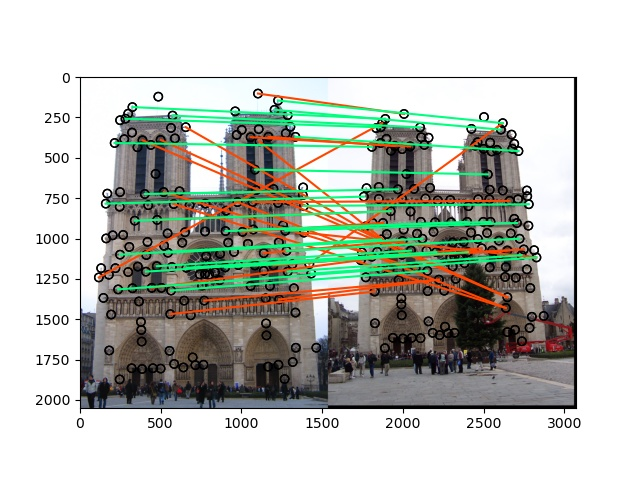
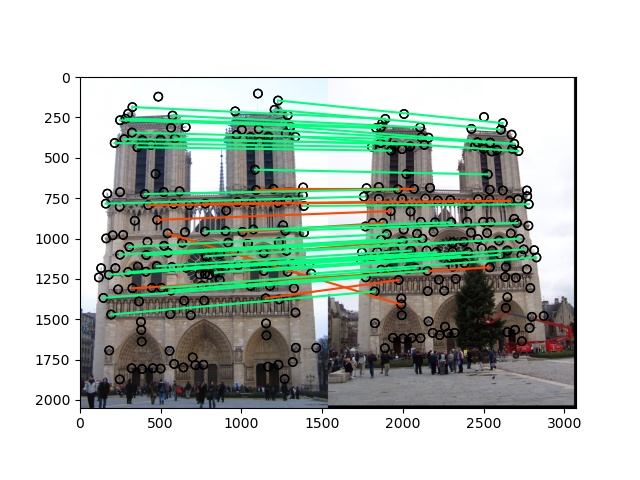
SIFT-like get_features Done

Changed region(s): [[0.1562, 0.2188, 0.8438, 0.6562], [0.4062, 0.1875, 0.5312, 0.2188], [0.6562, 0.3438, 0.6875, 0.375]]

diff --git a/Local Feature Matching/code/student.py b/Local Feature Matching/code/student.py
@@ -2,18 +2,19 @@ import numpy as np
 import matplotlib.pyplot as plt
 from skimage import filters, feature, img_as_int
 from skimage.measure import regionprops
+from scipy.signal import convolve2d
 
-def gaussianFilter(size, sigma):
+def getGaussianFilter(size, sigma):
     x, y = np.mgrid[-size // 2 + 1 : size // 2 + 1, -size // 2 + 1 : size // 2 + 1]
 
     gaussianKernel = np.exp(-((x**2 + y**2) / (2.0 * (sigma ** 2)))) / (2.0 * np.pi * (sigma ** 2))
      
     return gaussianKernel / gaussianKernel.sum()
 
-def sobelFilter():
-    return np.array([1, 2, 1],
+def getSobelFilter():
+    return np.array([[1, 2, 1],
                     [0, 0, 0],
-                    [-1, -2, -1])
+                    [-1, -2, -1]])
 
 def getDistanceMatrix(features1, features2, featureNumber1, featureNumber2):
     expandedFeatures1 = np.repeat(features1, repeats = featureNumber2, axis = 0)
@@ -26,9 +27,9 @@ def getDistanceMatrix(features1, features2, featureNumber1, featureNumber2):
 def getNormalizedPatches(image, x, y, featureWidth = 16):
     rowNumber = image.shape[0]
     colNumber = image.shape[1]
-    features = np.zeros((len(x),256))
+    features = np.zeros((len(x), 256))
     offset = np.uint16(featureWidth / 2)
-    # TODO: Your implementation here! See block comments and the project webpage for instructions
+    
     for i in range(len(x)):
         xCenter = np.uint16(x[i])
         yCenter = np.uint16(y[i]) 
@@ -41,10 +42,51 @@ def getNormalizedPatches(image, x, y, featureWidth = 16):
             patches = np.reshape(patches, (1, featureWidth ** 2))
             patches = patches / np.linalg.norm(patches)
             features[i, :] = patches
-        else:
-            patches = np.zeros((16, 16))
-            patches = np.reshape(patches, (1, 256))
-            features[i, :] = patches
+    return features
+
+def getScaleInvariantFeature(image, x, y, featureWidth = 16):
+    rowNumber = image.shape[0]
+    colNumber = image.shape[1]
+    offset = np.uint16(featureWidth / 2)
+
+    sobelFilter = getSobelFilter()
+    gaussianFilter = getGaussianFilter(int(offset), int(offset))
+    sobelFilterOctave = np.zeros((8, sobelFilter.shape[0], sobelFilter.shape[1]))
+    imageOctave = np.zeros((8, rowNumber, colNumber))
+
+    for i in range(8):
+        sobelFilter = np.array([[sobelFilter[0, 1], sobelFilter[0, 2], sobelFilter[1, 2]],
+                [sobelFilter[0, 0], sobelFilter[1, 1], sobelFilter[2, 2]],
+                [sobelFilter[1, 0], sobelFilter[2, 0], sobelFilter[2, 1]]])
+
+        sobelFilterOctave[i, :] = sobelFilter
+
+    for i in range(8):
+        imageOctave[i, :] = convolve2d(image, sobelFilterOctave[i], mode = 'same')
+
+    imageOctave = [convolve2d(x, gaussianFilter, mode = 'same') for x in imageOctave]
+    
+    features = np.ones((len(x), 128))
+    for i in range(len(x)):
+        xCenter = np.uint16(x[i])
+        yCenter = np.uint16(y[i]) 
+        if xCenter >= offset and xCenter <= rowNumber - 2 * offset and yCenter >= offset and yCenter <= colNumber - 2 * offset:
+            leftBound = np.uint16(x[i]) - offset
+            rightBound = np.uint16(x[i]) + offset
+            topBound = np.uint16(y[i]) - offset
+            bottomBound = np.uint16(y[i]) + offset
+
+            histogram = np.zeros((1, 128))
+            for j in range(8):
+                layerImage = np.array(imageOctave[j])
+                featureWindow = np.array(layerImage[topBound : bottomBound, leftBound : rightBound])
+                featureWindow = np.split(featureWindow, 4, axis=0)
+                featureWindow = np.array([np.split(x, 4, axis = 1) for x in featureWindow])
+                histogramPart = (np.array([[y.sum() for y in x] for x in featureWindow])).flatten()
+                for k in range(16):
+                    histogram[0, j + 8 * k] = histogramPart[k]
+            histogram = histogram / np.linalg.norm(histogram)
+            features[i, :] = histogram
     return features
 
 def get_interest_points(image, feature_width):
@@ -159,7 +201,8 @@ def get_features(image, x, y, feature_width):
 
     '''
     # TODO: Your implementation here! See block comments and the project webpage for instructions
-    return getNormalizedPatches(image, x, y, feature_width)
+    # return getNormalizedPatches(image, x, y, feature_width)
+    return getScaleInvariantFeature(image, x, y, feature_width)
 
 
 def match_features(im1_features, im2_features):

diff --git a/test.py b/test.py
@@ -1,55 +1,50 @@
 import numpy as np
 from cmath import sqrt
 from scipy.spatial.distance import cdist
-import scipy.ndimage.filters as ft 
+from scipy.signal import convolve2d
 
-def gaussianFilter(size, sigma):
+def getGaussianFilter(size, sigma):
     x, y = np.mgrid[-size // 2 + 1 : size // 2 + 1, -size // 2 + 1 : size // 2 + 1]
 
     gaussianKernel = np.exp(-((x**2 + y**2) / (2.0 * (sigma ** 2)))) / (2.0 * np.pi * (sigma ** 2))
      
     return gaussianKernel / gaussianKernel.sum()
 
-def getDistanceMatrix(features1, features2, featureNumber1, featureNumber2):
-    expandedFeatures1 = np.repeat(features1, repeats = featureNumber2, axis = 0)
-    expandedFeatures2 = np.tile(features2, (featureNumber1, 1))
+def getSobelFilter():
+    return np.array([[1, 2, 1],
+                    [0, 0, 0],
+                    [-1, -2, -1]])
 
-    subMatrix = expandedFeatures1 - expandedFeatures2
-    squareMatrix = subMatrix ** 2
-    return np.sqrt(squareMatrix.sum(axis = 1).reshape((featureNumber1, featureNumber2)))
+def getScaleInvariantFeature(image, x, y, featureWidth = 16):
+    rowNumber = image.shape[0]
+    colNumber = image.shape[1]
+    # features = np.zeros((len(x), 128))
+    offset = np.uint16(featureWidth / 2)
+    # cellWidth = np.uint16(featureWidth / 4)
 
-def match_features(im1_features, im2_features):
-    featureNumber1 = im1_features.shape[0]
-    featureNumber2 = im2_features.shape[0]
+    sobelFilter = getSobelFilter()
+    gaussianFilter = getGaussianFilter(int(offset), int(offset))
+    sobelFilterOctave = np.zeros((8, sobelFilter.shape[0], sobelFilter.shape[1]))
+    imageOctave = np.zeros((8, rowNumber, colNumber))
+
+    for i in range(8):
+        sobelFilter = np.array([[sobelFilter[0, 1], sobelFilter[0, 2], sobelFilter[1, 2]],
+                [sobelFilter[0, 0], sobelFilter[1, 1], sobelFilter[2, 2]],
+                [sobelFilter[1, 0], sobelFilter[2, 0], sobelFilter[2, 1]]])
+
+        sobelFilterOctave[i, :] = sobelFilter
+
+    for i in range(8):
+        imageOctave[i, :] = convolve2d(image, sobelFilterOctave[i], mode = 'same')
+
+    imageOctave = [convolve2d(x, gaussianFilter, mode = 'same') for x in imageOctave]
+    # for i in range(len(x)):
+
     
-    distanceMatrix = getDistanceMatrix(im1_features, im2_features, featureNumber1, featureNumber2)
+    return imageOctave
 
-    indexSortedMatrix = np.zeros((featureNumber1, featureNumber2))
-
-    indexSortedMatrix = np.argsort(distanceMatrix)
-
-    nearestNeighborIndex = indexSortedMatrix[:, 0]
-    secondNearestNeighborIndex = indexSortedMatrix[:, 1]
-
-    nearestNeighbor = list(map(lambda x, y: x[y], distanceMatrix, nearestNeighborIndex))
-    secondNearestNeighbor = list(map(lambda x, y: x[y], distanceMatrix, secondNearestNeighborIndex))
-
-    confidences = list(map(lambda x, y: y / x if x != 0 else -1, nearestNeighbor, secondNearestNeighbor))
-
-    matches = [[i, nearestNeighborIndex[i]] for i in range(featureNumber1)]
-
-    return indexSortedMatrix, secondNearestNeighborIndex
-    return matches, confidences
-
-A = np.array([[1,2,3,4,5,6,7,8],
-[3,2,3,2,3,2,3,2]])
-B = np.array([[1,1,1,1,1,1,1,1],
-[4,4,4,4,7,7,7,7],
-[3,4,5,6,6,5,4,3]])
-
-C = np.array([1,2,3,5,4,7,6])
-X = np.random.random((3,3))
-Y = np.random.random((5,3))
-# print(np.allclose(getDistanceMatrix(X,Y,X.shape[0],Y.shape[0]), cdist(X,Y)))
-print(getDistanceMatrix(X,Y,X.shape[0],Y.shape[0]))
-print(match_features(X, Y))
+A = np.array(range(256)).reshape((16, 16))
+B = np.array([1,2,3,4,5,6,7,8])
+C = [[1,2,3,4],[4,4,4,4]]
+print(np.array(C))
+print(B[1::2])

diff --git a/Image Filtering and Hybrid Image/test1.py b/Image Filtering and Hybrid Image/test1.py
@@ -4,6 +4,7 @@ import math
 import timeit
 from scipy.signal import convolve2d, convolve
 
+
 def convol2d(image, kernel):
     flipKernel = kernel.copy()
     for i in range(len(kernel)):
@@ -146,7 +147,7 @@ def convol(image, kernel):
 
 
 
-print(convol(A, I))
+print(convolve2d(A, I, mode='same'))
 print("================")
 # A = np.pad(A, ((0,3),(0,3)), mode='constant')
 # I = np.pad(I, ((0,5),(0,5)), mode='constant')

diff --git a/Local Feature Matching/code/main.py b/Local Feature Matching/code/main.py
@@ -159,10 +159,10 @@ def main():
     # !!! You will need to implement get_features. !!!
 
     print("Getting features...")
-    print(x1)
+    # print(x1)
     image1_features = student.get_features(image1, x1, y1, feature_width)
     image2_features = student.get_features(image2, x2, y2, feature_width)
-
+    print(image1_features)
     print("Done!")
 
     # 4) Match features. Szeliski 4.1.3
